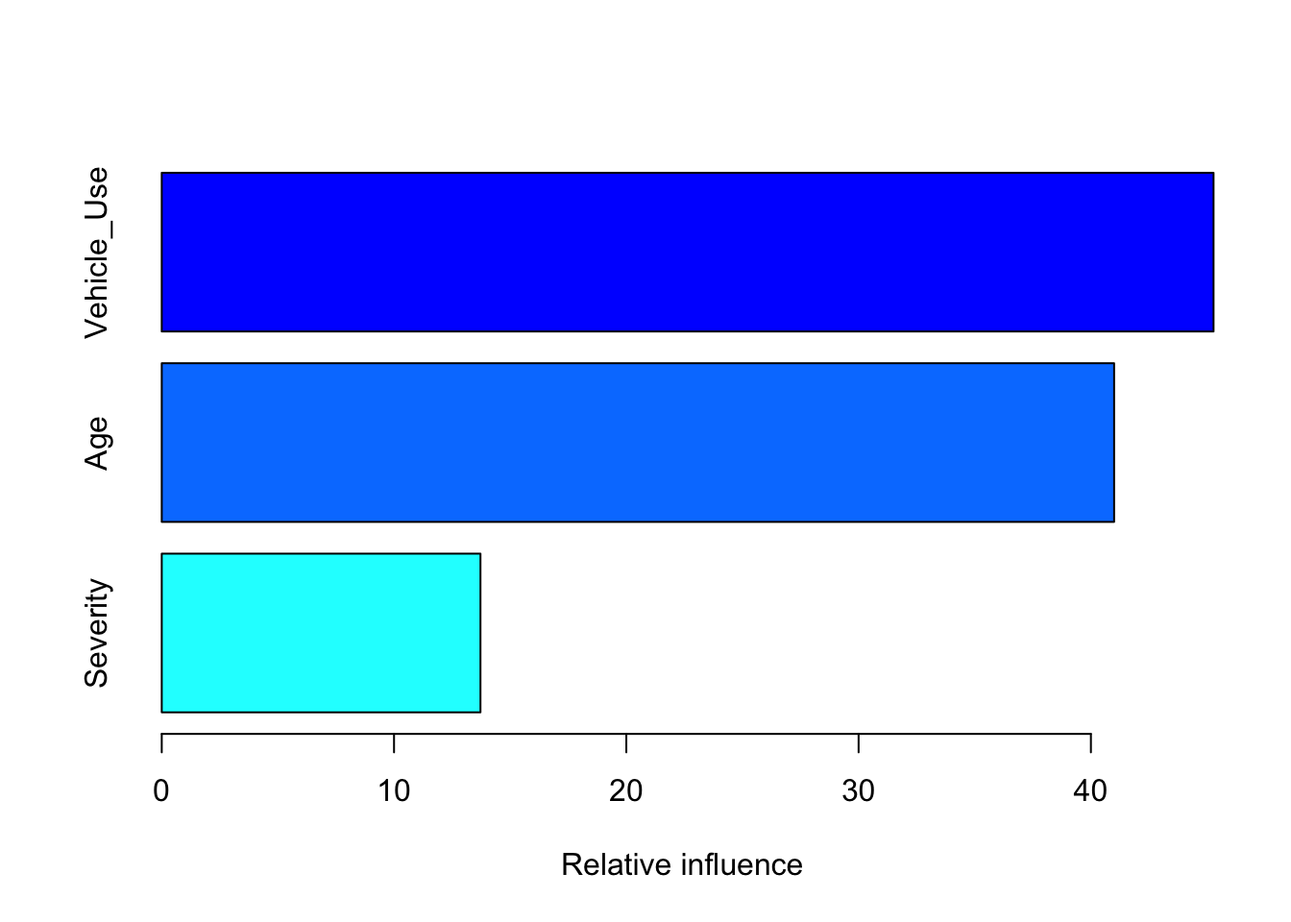
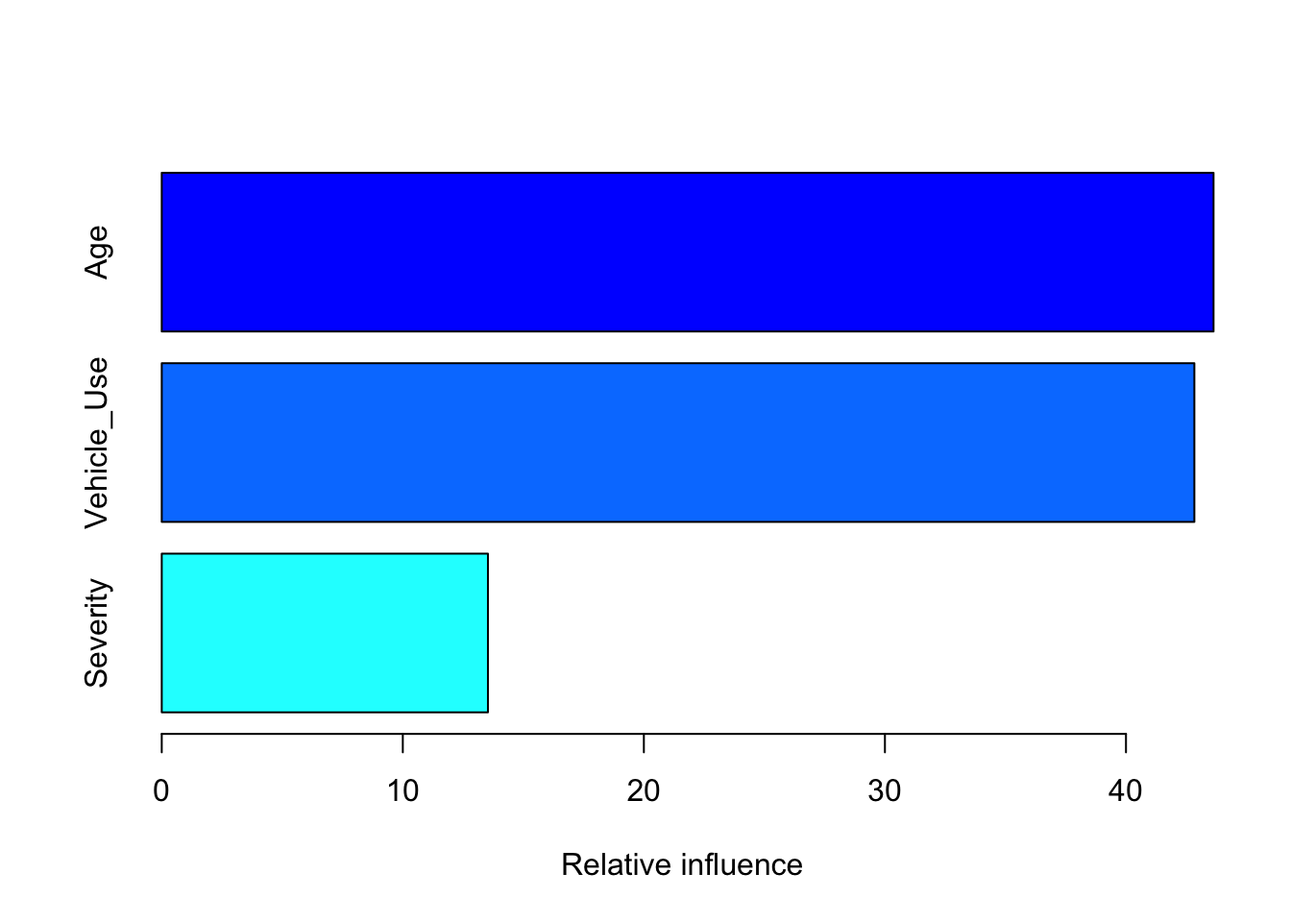
updates to guidebook

diff --git a/docs/viz.html b/docs/viz.html
@@ -106,7 +106,7 @@ code > span.in { color: #60a0b0; font-weight: bold; font-style: italic; } /* Inf
       <nav role="navigation">
 
 <ul class="summary">
-<li><a href="./">A Minimal Book Example</a></li>
+<li><a href="./">R for FinTech</a></li>
 
 <li class="divider"></li>
 <li class="chapter" data-level="1" data-path="index.html"><a href="index.html"><i class="fa fa-check"></i><b>1</b> Welcome</a><ul>
@@ -136,9 +136,12 @@ code > span.in { color: #60a0b0; font-weight: bold; font-style: italic; } /* Inf
 <li class="chapter" data-level="7" data-path="communicate.html"><a href="communicate.html"><i class="fa fa-check"></i><b>7</b> Communicate</a><ul>
 <li class="chapter" data-level="7.1" data-path="communicate.html"><a href="communicate.html#tools-for-communication-and-reproducible-research"><i class="fa fa-check"></i><b>7.1</b> <strong>Tools for Communication and Reproducible Research</strong></a></li>
 </ul></li>
-<li class="chapter" data-level="" data-path="references.html"><a href="references.html"><i class="fa fa-check"></i>References</a></li>
+<li class="chapter" data-level="8" data-path="references.html"><a href="references.html"><i class="fa fa-check"></i><b>8</b> References</a><ul>
+<li class="chapter" data-level="8.1" data-path="references.html"><a href="references.html#r-resources"><i class="fa fa-check"></i><b>8.1</b> R Resources</a></li>
+<li class="chapter" data-level="8.2" data-path="references.html"><a href="references.html#financial-technology-resources"><i class="fa fa-check"></i><b>8.2</b> Financial Technology Resources</a></li>
+</ul></li>
 <li class="divider"></li>
-<li><a href="https://github.com/rstudio/bookdown" target="blank">Published with bookdown</a></li>
+<li><a href="https://jasdumas.github.io/r4fintech/" target="blank">Published with bookdown</a></li>
 
 </ul>
 
@@ -213,8 +216,8 @@ g2</code></pre></div>
 ## 6   B  DriveShort   298.60         171</code></pre>
 <div class="sourceCode"><pre class="sourceCode r"><code class="sourceCode r"><span class="kw">plot_ly</span>(AutoCollision, <span class="dt">x =</span> Severity, <span class="dt">y =</span> Claim_Count, <span class="dt">mode =</span> <span class="st">&quot;markers&quot;</span>, 
         <span class="dt">color =</span> Severity, <span class="dt">size =</span> Severity)</code></pre></div>
-<div id="htmlwidget-ee71995193ee0b2fee0a" style="width:672px;height:480px;" class="plotly html-widget"></div>
-<script type="application/json" data-for="htmlwidget-ee71995193ee0b2fee0a">{"x":{"data":[{"type":"scatter","inherit":false,"x":[250.48,274.78,244.52,797.8,213.71,298.6,298.13,362.23,250.57,248.56,297.9,342.31,229.09,228.48,293.87,367.46,153.62,201.67,238.21,256.21,208.59,202.8,236.06,352.49,207.57,202.67,253.63,340.56,192,196.33,259.79,342.58],"y":[21,40,23,5,63,171,92,44,140,343,318,129,123,448,361,169,151,479,381,166,245,970,719,304,266,859,504,162,260,578,312,96],"mode":"markers","size":[250.48,274.78,244.52,797.8,213.71,298.6,298.13,362.23,250.57,248.56,297.9,342.31,229.09,228.48,293.87,367.46,153.62,201.67,238.21,256.21,208.59,202.8,236.06,352.49,207.57,202.67,253.63,340.56,192,196.33,259.79,342.58],"marker":{"colorbar":{"title":"Severity"},"colorscale":[[0,"#440154"],[0.111111111111111,"#482878"],[0.222222222222222,"#3E4A89"],[0.333333333333333,"#31688E"],[0.444444444444444,"#26828E"],[0.555555555555556,"#1F9E89"],[0.666666666666667,"#35B779"],[0.777777777777778,"#6DCD59"],[0.888888888888889,"#B4DE2C"],[1,"#FDE725"]],"color":[250.48,274.78,244.52,797.8,213.71,298.6,298.13,362.23,250.57,248.56,297.9,342.31,229.09,228.48,293.87,367.46,153.62,201.67,238.21,256.21,208.59,202.8,236.06,352.49,207.57,202.67,253.63,340.56,192,196.33,259.79,342.58],"size":[1529.51566558524,1677.89969095142,1493.12188817033,4871.63684926503,1304.98559921839,1823.35267384124,1820.48269474979,2211.89899211491,1530.06523604956,1517.79149567977,1819.07823689653,2090.26072934559,1398.90108523205,1395.17621875166,1794.46969277202,2243.83514243035,938.05571920794,1231.46528376947,1454.59089228306,1564.5049851469,1273.72114613712,1238.36544626592,1441.46226452432,2152.42325519859,1267.49268087483,1237.5716222619,1548.75063183641,2079.57463698383,1172.41699054761,1198.85743621986,1586.36567694982,2091.90944073855],"sizemode":"area"},"text":["Severity (size): 250.48","Severity (size): 274.78","Severity (size): 244.52","Severity (size): 797.8","Severity (size): 213.71","Severity (size): 298.6","Severity (size): 298.13","Severity (size): 362.23","Severity (size): 250.57","Severity (size): 248.56","Severity (size): 297.9","Severity (size): 342.31","Severity (size): 229.09","Severity (size): 228.48","Severity (size): 293.87","Severity (size): 367.46","Severity (size): 153.62","Severity (size): 201.67","Severity (size): 238.21","Severity (size): 256.21","Severity (size): 208.59","Severity (size): 202.8","Severity (size): 236.06","Severity (size): 352.49","Severity (size): 207.57","Severity (size): 202.67","Severity (size): 253.63","Severity (size): 340.56","Severity (size): 192","Severity (size): 196.33","Severity (size): 259.79","Severity (size): 342.58"]}],"layout":{"xaxis":{"title":"Severity"},"yaxis":{"title":"Claim_Count"},"hovermode":"closest","margin":{"b":40,"l":60,"t":25,"r":10}},"url":null,"width":null,"height":null,"source":"A","config":{"modeBarButtonsToRemove":["sendDataToCloud"]},"base_url":"https://plot.ly"},"evals":[],"jsHooks":[]}</script>
+<div id="htmlwidget-b3d1f5c9f47706058b17" style="width:672px;height:480px;" class="plotly html-widget"></div>
+<script type="application/json" data-for="htmlwidget-b3d1f5c9f47706058b17">{"x":{"data":[{"type":"scatter","inherit":false,"x":[250.48,274.78,244.52,797.8,213.71,298.6,298.13,362.23,250.57,248.56,297.9,342.31,229.09,228.48,293.87,367.46,153.62,201.67,238.21,256.21,208.59,202.8,236.06,352.49,207.57,202.67,253.63,340.56,192,196.33,259.79,342.58],"y":[21,40,23,5,63,171,92,44,140,343,318,129,123,448,361,169,151,479,381,166,245,970,719,304,266,859,504,162,260,578,312,96],"mode":"markers","size":[250.48,274.78,244.52,797.8,213.71,298.6,298.13,362.23,250.57,248.56,297.9,342.31,229.09,228.48,293.87,367.46,153.62,201.67,238.21,256.21,208.59,202.8,236.06,352.49,207.57,202.67,253.63,340.56,192,196.33,259.79,342.58],"marker":{"colorbar":{"title":"Severity"},"colorscale":[[0,"#440154"],[0.111111111111111,"#482878"],[0.222222222222222,"#3E4A89"],[0.333333333333333,"#31688E"],[0.444444444444444,"#26828E"],[0.555555555555556,"#1F9E89"],[0.666666666666667,"#35B779"],[0.777777777777778,"#6DCD59"],[0.888888888888889,"#B4DE2C"],[1,"#FDE725"]],"color":[250.48,274.78,244.52,797.8,213.71,298.6,298.13,362.23,250.57,248.56,297.9,342.31,229.09,228.48,293.87,367.46,153.62,201.67,238.21,256.21,208.59,202.8,236.06,352.49,207.57,202.67,253.63,340.56,192,196.33,259.79,342.58],"size":[1529.51566558524,1677.89969095142,1493.12188817033,4871.63684926503,1304.98559921839,1823.35267384124,1820.48269474979,2211.89899211491,1530.06523604956,1517.79149567977,1819.07823689653,2090.26072934559,1398.90108523205,1395.17621875166,1794.46969277202,2243.83514243035,938.05571920794,1231.46528376947,1454.59089228306,1564.5049851469,1273.72114613712,1238.36544626592,1441.46226452432,2152.42325519859,1267.49268087483,1237.5716222619,1548.75063183641,2079.57463698383,1172.41699054761,1198.85743621986,1586.36567694982,2091.90944073855],"sizemode":"area"},"text":["Severity (size): 250.48","Severity (size): 274.78","Severity (size): 244.52","Severity (size): 797.8","Severity (size): 213.71","Severity (size): 298.6","Severity (size): 298.13","Severity (size): 362.23","Severity (size): 250.57","Severity (size): 248.56","Severity (size): 297.9","Severity (size): 342.31","Severity (size): 229.09","Severity (size): 228.48","Severity (size): 293.87","Severity (size): 367.46","Severity (size): 153.62","Severity (size): 201.67","Severity (size): 238.21","Severity (size): 256.21","Severity (size): 208.59","Severity (size): 202.8","Severity (size): 236.06","Severity (size): 352.49","Severity (size): 207.57","Severity (size): 202.67","Severity (size): 253.63","Severity (size): 340.56","Severity (size): 192","Severity (size): 196.33","Severity (size): 259.79","Severity (size): 342.58"]}],"layout":{"xaxis":{"title":"Severity"},"yaxis":{"title":"Claim_Count"},"hovermode":"closest","margin":{"b":40,"l":60,"t":25,"r":10}},"url":null,"width":null,"height":null,"source":"A","config":{"modeBarButtonsToRemove":["sendDataToCloud"]},"base_url":"https://plot.ly"},"evals":[],"jsHooks":[]}</script>
 </div>
 <div id="other-visualization-packages" class="section level2">
 <h2><span class="header-section-number">5.3</span> <strong>Other visualization packages</strong></h2>
@@ -261,7 +264,7 @@ gitbook.start({
 "size": 2
 },
 "edit": {
-"link": "https://github.com/rstudio/bookdown-demo/edit/master/04-viz.Rmd",
+"link": "https://github.com/jasdumas/r4fintech/edit/master/04-viz.Rmd",
 "text": null
 },
 "download": null,

diff --git a/docs/index.html b/docs/index.html
@@ -106,7 +106,7 @@ code > span.in { color: #60a0b0; font-weight: bold; font-style: italic; } /* Inf
       <nav role="navigation">
 
 <ul class="summary">
-<li><a href="./">A Minimal Book Example</a></li>
+<li><a href="./">R for FinTech</a></li>
 
 <li class="divider"></li>
 <li class="chapter" data-level="1" data-path="index.html"><a href="index.html"><i class="fa fa-check"></i><b>1</b> Welcome</a><ul>
@@ -136,9 +136,12 @@ code > span.in { color: #60a0b0; font-weight: bold; font-style: italic; } /* Inf
 <li class="chapter" data-level="7" data-path="communicate.html"><a href="communicate.html"><i class="fa fa-check"></i><b>7</b> Communicate</a><ul>
 <li class="chapter" data-level="7.1" data-path="communicate.html"><a href="communicate.html#tools-for-communication-and-reproducible-research"><i class="fa fa-check"></i><b>7.1</b> <strong>Tools for Communication and Reproducible Research</strong></a></li>
 </ul></li>
-<li class="chapter" data-level="" data-path="references.html"><a href="references.html"><i class="fa fa-check"></i>References</a></li>
+<li class="chapter" data-level="8" data-path="references.html"><a href="references.html"><i class="fa fa-check"></i><b>8</b> References</a><ul>
+<li class="chapter" data-level="8.1" data-path="references.html"><a href="references.html#r-resources"><i class="fa fa-check"></i><b>8.1</b> R Resources</a></li>
+<li class="chapter" data-level="8.2" data-path="references.html"><a href="references.html#financial-technology-resources"><i class="fa fa-check"></i><b>8.2</b> Financial Technology Resources</a></li>
+</ul></li>
 <li class="divider"></li>
-<li><a href="https://github.com/rstudio/bookdown" target="blank">Published with bookdown</a></li>
+<li><a href="https://jasdumas.github.io/r4fintech/" target="blank">Published with bookdown</a></li>
 
 </ul>
 
@@ -164,7 +167,7 @@ code > span.in { color: #60a0b0; font-weight: bold; font-style: italic; } /* Inf
 </div>
 <div id="welcome" class="section level1">
 <h1><span class="header-section-number">Chapter 1</span> Welcome</h1>
-<p>Welcome to the Guidebook <strong>R for FinTech</strong>. This Guidebook will include examples, tutorials, and highlight essential R packages for Data Science. The organization of this guide is inspired by the book <a href="http://r4ds.had.co.nz/"><strong>R for Data Science</strong></a> from Garrett Grolemund and Hadley Wickham. This guide has emphasis on <a href="https://en.wikipedia.org/wiki/Financial_technology">“FinTech”</a> or Financial Technology applications in data analysis.</p>
+<p>Welcome to the guidebook <strong>R for FinTech</strong>! This guidebook will include examples, tutorials, and highlight essential R packages for Data Science. The organization of this guide is inspired by the book <a href="http://r4ds.had.co.nz/"><strong>R for Data Science</strong></a> from Garrett Grolemund and Hadley Wickham which explores each step of the data science process from acquiring data to communicating the outputs. This guidebook has emphasis on <a href="https://en.wikipedia.org/wiki/Financial_technology">“FinTech”</a> or Financial Technology applications in data analysis.</p>
 <div id="prerequisites" class="section level2">
 <h2><span class="header-section-number">1.1</span> Prerequisites</h2>
 <p><strong>If you don’t already have R or RStudio:</strong></p>
@@ -208,7 +211,7 @@ gitbook.start({
 "size": 2
 },
 "edit": {
-"link": "https://github.com/rstudio/bookdown-demo/edit/master/index.Rmd",
+"link": "https://github.com/jasdumas/r4fintech/edit/master/index.Rmd",
 "text": null
 },
 "download": null,

diff --git a/docs/references.html b/docs/references.html
@@ -106,7 +106,7 @@ code > span.in { color: #60a0b0; font-weight: bold; font-style: italic; } /* Inf
       <nav role="navigation">
 
 <ul class="summary">
-<li><a href="./">A Minimal Book Example</a></li>
+<li><a href="./">R for FinTech</a></li>
 
 <li class="divider"></li>
 <li class="chapter" data-level="1" data-path="index.html"><a href="index.html"><i class="fa fa-check"></i><b>1</b> Welcome</a><ul>
@@ -136,9 +136,12 @@ code > span.in { color: #60a0b0; font-weight: bold; font-style: italic; } /* Inf
 <li class="chapter" data-level="7" data-path="communicate.html"><a href="communicate.html"><i class="fa fa-check"></i><b>7</b> Communicate</a><ul>
 <li class="chapter" data-level="7.1" data-path="communicate.html"><a href="communicate.html#tools-for-communication-and-reproducible-research"><i class="fa fa-check"></i><b>7.1</b> <strong>Tools for Communication and Reproducible Research</strong></a></li>
 </ul></li>
-<li class="chapter" data-level="" data-path="references.html"><a href="references.html"><i class="fa fa-check"></i>References</a></li>
+<li class="chapter" data-level="8" data-path="references.html"><a href="references.html"><i class="fa fa-check"></i><b>8</b> References</a><ul>
+<li class="chapter" data-level="8.1" data-path="references.html"><a href="references.html#r-resources"><i class="fa fa-check"></i><b>8.1</b> R Resources</a></li>
+<li class="chapter" data-level="8.2" data-path="references.html"><a href="references.html#financial-technology-resources"><i class="fa fa-check"></i><b>8.2</b> Financial Technology Resources</a></li>
+</ul></li>
 <li class="divider"></li>
-<li><a href="https://github.com/rstudio/bookdown" target="blank">Published with bookdown</a></li>
+<li><a href="https://jasdumas.github.io/r4fintech/" target="blank">Published with bookdown</a></li>
 
 </ul>
 
@@ -157,9 +160,23 @@ code > span.in { color: #60a0b0; font-weight: bold; font-style: italic; } /* Inf
           <div class="page-inner">
 
             <section class="normal" id="section-">
-<div id="references" class="section level1 unnumbered">
-<h1>References</h1>
+<div id="references" class="section level1">
+<h1><span class="header-section-number">Chapter 8</span> References</h1>
+<div id="r-resources" class="section level2">
+<h2><span class="header-section-number">8.1</span> R Resources</h2>
+<ul>
+<li><a href="http://r4ds.had.co.nz/"><strong>R for Data Science</strong></a></li>
+<li><a href="https://bookdown.org/yihui/bookdown/">bookdown: Authoring Books with R Markdown</a></li>
+</ul>
+</div>
+<div id="financial-technology-resources" class="section level2">
+<h2><span class="header-section-number">8.2</span> Financial Technology Resources</h2>
+<ul>
+<li><a href="https://medium.com/wharton-fintech">Wharton FinTech</a></li>
+<li><a href="https://twitter.com/hashtag/fintech?lang=en">#fintech</a></li>
+</ul>
 
+</div>
 </div>
             </section>
 
@@ -194,7 +211,7 @@ gitbook.start({
 "size": 2
 },
 "edit": {
-"link": "https://github.com/rstudio/bookdown-demo/edit/master/07-references.Rmd",
+"link": "https://github.com/jasdumas/r4fintech/edit/master/07-references.Rmd",
 "text": null
 },
 "download": null,

diff --git a/docs/model.html b/docs/model.html
@@ -106,7 +106,7 @@ code > span.in { color: #60a0b0; font-weight: bold; font-style: italic; } /* Inf
       <nav role="navigation">
 
 <ul class="summary">
-<li><a href="./">A Minimal Book Example</a></li>
+<li><a href="./">R for FinTech</a></li>
 
 <li class="divider"></li>
 <li class="chapter" data-level="1" data-path="index.html"><a href="index.html"><i class="fa fa-check"></i><b>1</b> Welcome</a><ul>
@@ -136,9 +136,12 @@ code > span.in { color: #60a0b0; font-weight: bold; font-style: italic; } /* Inf
 <li class="chapter" data-level="7" data-path="communicate.html"><a href="communicate.html"><i class="fa fa-check"></i><b>7</b> Communicate</a><ul>
 <li class="chapter" data-level="7.1" data-path="communicate.html"><a href="communicate.html#tools-for-communication-and-reproducible-research"><i class="fa fa-check"></i><b>7.1</b> <strong>Tools for Communication and Reproducible Research</strong></a></li>
 </ul></li>
-<li class="chapter" data-level="" data-path="references.html"><a href="references.html"><i class="fa fa-check"></i>References</a></li>
+<li class="chapter" data-level="8" data-path="references.html"><a href="references.html"><i class="fa fa-check"></i><b>8</b> References</a><ul>
+<li class="chapter" data-level="8.1" data-path="references.html"><a href="references.html#r-resources"><i class="fa fa-check"></i><b>8.1</b> R Resources</a></li>
+<li class="chapter" data-level="8.2" data-path="references.html"><a href="references.html#financial-technology-resources"><i class="fa fa-check"></i><b>8.2</b> Financial Technology Resources</a></li>
+</ul></li>
 <li class="divider"></li>
-<li><a href="https://github.com/rstudio/bookdown" target="blank">Published with bookdown</a></li>
+<li><a href="https://jasdumas.github.io/r4fintech/" target="blank">Published with bookdown</a></li>
 
 </ul>
 
@@ -283,9 +286,9 @@ fit &lt;-<span class="st"> </span><span class="kw">gbm</span>(Claim_Count ~<span
 <span class="kw">summary</span>(fit)</code></pre></div>
 <p><img src="r4fintech_files/figure-html/gbm-exp1-1.png" width="672" /></p>
 <pre><code>##                     var  rel.inf
-## Vehicle_Use Vehicle_Use 45.27999
-## Age                 Age 40.99929
-## Severity       Severity 13.72072</code></pre>
+## Age                 Age 43.63192
+## Vehicle_Use Vehicle_Use 42.83645
+## Severity       Severity 13.53163</code></pre>
 </div>
 <div id="ensemble-learning" class="section level2">
 <h2><span class="header-section-number">6.4</span> <strong>Ensemble learning</strong></h2>
@@ -339,7 +342,7 @@ gitbook.start({
 "size": 2
 },
 "edit": {
-"link": "https://github.com/rstudio/bookdown-demo/edit/master/05-model.Rmd",
+"link": "https://github.com/jasdumas/r4fintech/edit/master/05-model.Rmd",
 "text": null
 },
 "download": null,

diff --git a/docs/communicate.html b/docs/communicate.html
@@ -106,7 +106,7 @@ code > span.in { color: #60a0b0; font-weight: bold; font-style: italic; } /* Inf
       <nav role="navigation">
 
 <ul class="summary">
-<li><a href="./">A Minimal Book Example</a></li>
+<li><a href="./">R for FinTech</a></li>
 
 <li class="divider"></li>
 <li class="chapter" data-level="1" data-path="index.html"><a href="index.html"><i class="fa fa-check"></i><b>1</b> Welcome</a><ul>
@@ -136,9 +136,12 @@ code > span.in { color: #60a0b0; font-weight: bold; font-style: italic; } /* Inf
 <li class="chapter" data-level="7" data-path="communicate.html"><a href="communicate.html"><i class="fa fa-check"></i><b>7</b> Communicate</a><ul>
 <li class="chapter" data-level="7.1" data-path="communicate.html"><a href="communicate.html#tools-for-communication-and-reproducible-research"><i class="fa fa-check"></i><b>7.1</b> <strong>Tools for Communication and Reproducible Research</strong></a></li>
 </ul></li>
-<li class="chapter" data-level="" data-path="references.html"><a href="references.html"><i class="fa fa-check"></i>References</a></li>
+<li class="chapter" data-level="8" data-path="references.html"><a href="references.html"><i class="fa fa-check"></i><b>8</b> References</a><ul>
+<li class="chapter" data-level="8.1" data-path="references.html"><a href="references.html#r-resources"><i class="fa fa-check"></i><b>8.1</b> R Resources</a></li>
+<li class="chapter" data-level="8.2" data-path="references.html"><a href="references.html#financial-technology-resources"><i class="fa fa-check"></i><b>8.2</b> Financial Technology Resources</a></li>
+</ul></li>
 <li class="divider"></li>
-<li><a href="https://github.com/rstudio/bookdown" target="blank">Published with bookdown</a></li>
+<li><a href="https://jasdumas.github.io/r4fintech/" target="blank">Published with bookdown</a></li>
 
 </ul>
 
@@ -205,7 +208,7 @@ gitbook.start({
 "size": 2
 },
 "edit": {
-"link": "https://github.com/rstudio/bookdown-demo/edit/master/06-communicate.Rmd",
+"link": "https://github.com/jasdumas/r4fintech/edit/master/06-communicate.Rmd",
 "text": null
 },
 "download": null,

diff --git a/docs/transform.html b/docs/transform.html
@@ -106,7 +106,7 @@ code > span.in { color: #60a0b0; font-weight: bold; font-style: italic; } /* Inf
       <nav role="navigation">
 
 <ul class="summary">
-<li><a href="./">A Minimal Book Example</a></li>
+<li><a href="./">R for FinTech</a></li>
 
 <li class="divider"></li>
 <li class="chapter" data-level="1" data-path="index.html"><a href="index.html"><i class="fa fa-check"></i><b>1</b> Welcome</a><ul>
@@ -136,9 +136,12 @@ code > span.in { color: #60a0b0; font-weight: bold; font-style: italic; } /* Inf
 <li class="chapter" data-level="7" data-path="communicate.html"><a href="communicate.html"><i class="fa fa-check"></i><b>7</b> Communicate</a><ul>
 <li class="chapter" data-level="7.1" data-path="communicate.html"><a href="communicate.html#tools-for-communication-and-reproducible-research"><i class="fa fa-check"></i><b>7.1</b> <strong>Tools for Communication and Reproducible Research</strong></a></li>
 </ul></li>
-<li class="chapter" data-level="" data-path="references.html"><a href="references.html"><i class="fa fa-check"></i>References</a></li>
+<li class="chapter" data-level="8" data-path="references.html"><a href="references.html"><i class="fa fa-check"></i><b>8</b> References</a><ul>
+<li class="chapter" data-level="8.1" data-path="references.html"><a href="references.html#r-resources"><i class="fa fa-check"></i><b>8.1</b> R Resources</a></li>
+<li class="chapter" data-level="8.2" data-path="references.html"><a href="references.html#financial-technology-resources"><i class="fa fa-check"></i><b>8.2</b> Financial Technology Resources</a></li>
+</ul></li>
 <li class="divider"></li>
-<li><a href="https://github.com/rstudio/bookdown" target="blank">Published with bookdown</a></li>
+<li><a href="https://jasdumas.github.io/r4fintech/" target="blank">Published with bookdown</a></li>
 
 </ul>
 
@@ -223,7 +226,7 @@ gitbook.start({
 "size": 2
 },
 "edit": {
-"link": "https://github.com/rstudio/bookdown-demo/edit/master/03-transform.Rmd",
+"link": "https://github.com/jasdumas/r4fintech/edit/master/03-transform.Rmd",
 "text": null
 },
 "download": null,

diff --git a/docs/import.html b/docs/import.html
@@ -106,7 +106,7 @@ code > span.in { color: #60a0b0; font-weight: bold; font-style: italic; } /* Inf
       <nav role="navigation">
 
 <ul class="summary">
-<li><a href="./">A Minimal Book Example</a></li>
+<li><a href="./">R for FinTech</a></li>
 
 <li class="divider"></li>
 <li class="chapter" data-level="1" data-path="index.html"><a href="index.html"><i class="fa fa-check"></i><b>1</b> Welcome</a><ul>
@@ -136,9 +136,12 @@ code > span.in { color: #60a0b0; font-weight: bold; font-style: italic; } /* Inf
 <li class="chapter" data-level="7" data-path="communicate.html"><a href="communicate.html"><i class="fa fa-check"></i><b>7</b> Communicate</a><ul>
 <li class="chapter" data-level="7.1" data-path="communicate.html"><a href="communicate.html#tools-for-communication-and-reproducible-research"><i class="fa fa-check"></i><b>7.1</b> <strong>Tools for Communication and Reproducible Research</strong></a></li>
 </ul></li>
-<li class="chapter" data-level="" data-path="references.html"><a href="references.html"><i class="fa fa-check"></i>References</a></li>
+<li class="chapter" data-level="8" data-path="references.html"><a href="references.html"><i class="fa fa-check"></i><b>8</b> References</a><ul>
+<li class="chapter" data-level="8.1" data-path="references.html"><a href="references.html#r-resources"><i class="fa fa-check"></i><b>8.1</b> R Resources</a></li>
+<li class="chapter" data-level="8.2" data-path="references.html"><a href="references.html#financial-technology-resources"><i class="fa fa-check"></i><b>8.2</b> Financial Technology Resources</a></li>
+</ul></li>
 <li class="divider"></li>
-<li><a href="https://github.com/rstudio/bookdown" target="blank">Published with bookdown</a></li>
+<li><a href="https://jasdumas.github.io/r4fintech/" target="blank">Published with bookdown</a></li>
 
 </ul>
 
@@ -262,7 +265,7 @@ gitbook.start({
 "size": 2
 },
 "edit": {
-"link": "https://github.com/rstudio/bookdown-demo/edit/master/01-import.Rmd",
+"link": "https://github.com/jasdumas/r4fintech/edit/master/01-import.Rmd",
 "text": null
 },
 "download": null,

diff --git a/docs/tidy.html b/docs/tidy.html
@@ -106,7 +106,7 @@ code > span.in { color: #60a0b0; font-weight: bold; font-style: italic; } /* Inf
       <nav role="navigation">
 
 <ul class="summary">
-<li><a href="./">A Minimal Book Example</a></li>
+<li><a href="./">R for FinTech</a></li>
 
 <li class="divider"></li>
 <li class="chapter" data-level="1" data-path="index.html"><a href="index.html"><i class="fa fa-check"></i><b>1</b> Welcome</a><ul>
@@ -136,9 +136,12 @@ code > span.in { color: #60a0b0; font-weight: bold; font-style: italic; } /* Inf
 <li class="chapter" data-level="7" data-path="communicate.html"><a href="communicate.html"><i class="fa fa-check"></i><b>7</b> Communicate</a><ul>
 <li class="chapter" data-level="7.1" data-path="communicate.html"><a href="communicate.html#tools-for-communication-and-reproducible-research"><i class="fa fa-check"></i><b>7.1</b> <strong>Tools for Communication and Reproducible Research</strong></a></li>
 </ul></li>
-<li class="chapter" data-level="" data-path="references.html"><a href="references.html"><i class="fa fa-check"></i>References</a></li>
+<li class="chapter" data-level="8" data-path="references.html"><a href="references.html"><i class="fa fa-check"></i><b>8</b> References</a><ul>
+<li class="chapter" data-level="8.1" data-path="references.html"><a href="references.html#r-resources"><i class="fa fa-check"></i><b>8.1</b> R Resources</a></li>
+<li class="chapter" data-level="8.2" data-path="references.html"><a href="references.html#financial-technology-resources"><i class="fa fa-check"></i><b>8.2</b> Financial Technology Resources</a></li>
+</ul></li>
 <li class="divider"></li>
-<li><a href="https://github.com/rstudio/bookdown" target="blank">Published with bookdown</a></li>
+<li><a href="https://jasdumas.github.io/r4fintech/" target="blank">Published with bookdown</a></li>
 
 </ul>
 
@@ -267,7 +270,7 @@ gitbook.start({
 "size": 2
 },
 "edit": {
-"link": "https://github.com/rstudio/bookdown-demo/edit/master/02-tidy.Rmd",
+"link": "https://github.com/jasdumas/r4fintech/edit/master/02-tidy.Rmd",
 "text": null
 },
 "download": null,
